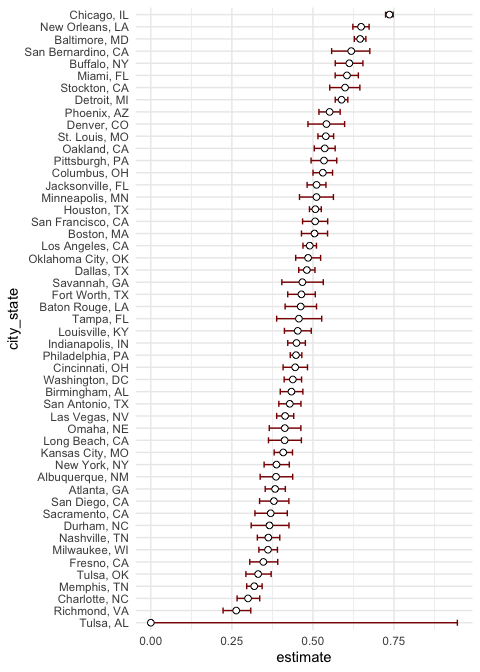
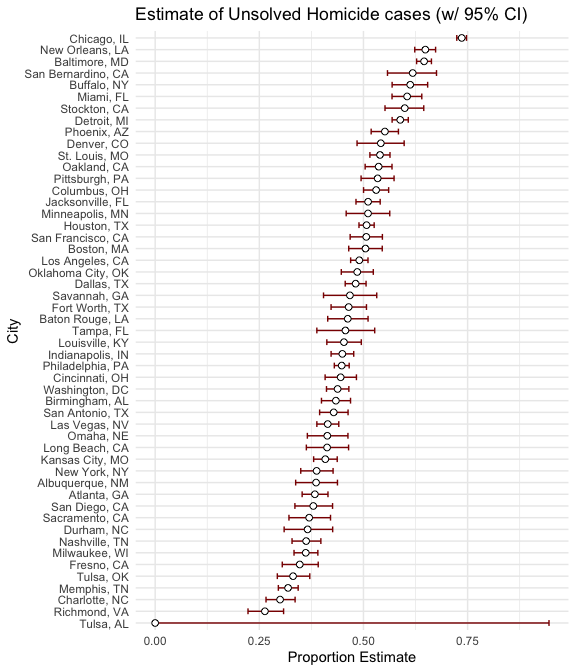
Editing response about effect size and sample estimate

Changed region(s): [[0.0, 0.0, 0.9688, 0.9688], [0.5, 0.9375, 0.7188, 1.0], [0.7812, 0.9375, 0.8438, 0.9688]]

diff --git a/p8105_hw5_cyl2159.md b/p8105_hw5_cyl2159.md
@@ -121,7 +121,7 @@ combined_t_results|>
   mutate(overall_average = mean(estimate)) |> 
   ungroup() |> 
   group_by(mu_val, reject_Ho) |> 
-  summarise(average_for_sampled_w_Ho_rejection = mean(estimate), 
+  summarise(mean_for_sample_w_Ho_rejection = mean(estimate), 
             mean_overall_estimate = overall_average[1]) |> 
   ungroup() |> 
   filter(reject_Ho == TRUE) |> 
@@ -133,18 +133,25 @@ combined_t_results|>
   ggplot(aes(x = mu_val, y = mean, group = mean_type, color = mean_type)) +
   geom_point(alpha = 0.5) +
   labs(x = "True Mean Value", y = "Average Mean Estimate",
-       title = "True versus Estimated Mean Values", color = "")
+       title = "True versus Estimated Mean Values", color = "") +
+  scale_colour_viridis_d(
+    breaks = c("mean_for_sample_w_Ho_rejection", "mean_overall_estimate"),
+    labels = c("Samples with Null Rejected", "All Samples"))
 ```
 
-<img src="p8105_hw5_cyl2159_files/figure-gfm/unnamed-chunk-8-1.png" width="85%" style="display: block; margin: auto;" />
+<img src="p8105_hw5_cyl2159_files/figure-gfm/unnamed-chunk-8-1.png" width="60%" style="display: block; margin: auto;" />
 
-The sample average of $\hat{\mu}$ across tests for which the null is
-rejected is approximately equal to the true value of $\mu$. It is
-because estimated sample mean ($\hat{\mu}$)has to be different from the
-null value (0) and closer to the actual $\mu$ to reject the null
-hypothesis. This is the case for when we the true value is 1-6, however,
-not for when true $\mu$ = 0, since reject the null means that the
-estimate is different thatn 0.
+No, the sample average of $\hat{\mu}$ across tests for which the null is
+rejected is not approximately equal to the true value of $\mu$. It is
+because the test for rejecting the null focuses on cases where the
+sample mean is significantly different (0 in this case). When the true
+mean ($\mu$) is small, it is less likely for the null to be rejected (as
+shown in the previous plot), so for the null to be rejected, the
+estimate has to be distinctly different from 0. This leads to a biased
+estimate. As, $\mu$ increases, it becomes easier to reject null, so the
+average rejected samples’ mean ($\hat{\mu}$) is closer to $\mu$. This is
+why we see higher deviation in rejected sample mean from the true mean
+for when $\mu$ = 1 and as $\mu$ increases, it gets closer.
 
 ## Problem 3
 
@@ -152,39 +159,27 @@ Load homicide data from the Washington Post:
 
 ``` r
 homicide_data <- read_csv("data/homicide-data.csv") |> 
-  mutate(state = toupper(state))
-```
-
-    ## Rows: 52179 Columns: 12
-    ## ── Column specification ────────────────────────────────────────────────────────
-    ## Delimiter: ","
-    ## chr (9): uid, victim_last, victim_first, victim_race, victim_age, victim_sex...
-    ## dbl (3): reported_date, lat, lon
-    ## 
-    ## ℹ Use `spec()` to retrieve the full column specification for this data.
-    ## ℹ Specify the column types or set `show_col_types = FALSE` to quiet this message.
-
-``` r
-cities <- pull(homicide_data, city) |> unique() |> length()
+  mutate(state = toupper(state), 
+         city_state = str_c(city, state, sep = ", "), 
+         result = case_when(disposition %in% c("Closed without arrest", 
+                                                "Open/No arrest") ~ "unsolved", 
+                            disposition == "Closed by arrest" ~ "solved")) 
+cities <- pull(homicide_data, city_state) |> unique() |> length()
 states <- pull(homicide_data, state) |> unique() |> length()
 ```
 
-The raw dataset has 52179 rows and 12 columns where each row is a
+The raw dataset has 52179 rows and 14 columns where each row is a
 homicide case. Along with the case number, reported date, victim’s name,
 their demographic information, it also has geographical information such
-as city, state, longitude and latitude. There are cases from 50 cities
-from `r`states`states. Similarly, the column`disposition\` remarks end
-result of the case. I corrected state values to be uppercase, created a
+as city, state, longitude and latitude. There are cases from 51 cities
+from 28 states. Similarly, the column `disposition` remarks end result
+of the case. I corrected state values to be uppercase, created a
 city_state variable, and summarized the total number of homicides and
 number of unsolved homicides in each city. Below is the list of 10
 cities with most unsolved homicides.
 
 ``` r
 homicide_data_clean <- homicide_data |> 
-  mutate(city_state = str_c(city, state, sep = ", "), 
-         result = case_when(disposition %in% c("Closed without arrest", 
-                                                "Open/No arrest") ~ "unsolved", 
-                            disposition == "Closed by arrest" ~ "solved")) |> 
   group_by(city_state, result) |> 
   summarize(homicide = n()) |> 
   pivot_wider(
@@ -195,30 +190,25 @@ homicide_data_clean <- homicide_data |>
                               TRUE ~ unsolved), 
     total_homicide = sum(solved, unsolved, na.rm = TRUE)) |> 
   select(city_state, total_homicide, unsolved) |> 
-  arrange(unsolved)
-```
+  arrange(desc(unsolved))
 
-    ## `summarise()` has grouped output by 'city_state'. You can override using the
-    ## `.groups` argument.
-
-``` r
 homicide_data_clean |> 
   head(10) |> 
   knitr::kable()
 ```
 
-| city_state      | total_homicide | unsolved |
-|:----------------|---------------:|---------:|
-| Tulsa, AL       |              1 |        0 |
-| Tampa, FL       |            208 |       95 |
-| Durham, NC      |            276 |      101 |
-| Richmond, VA    |            429 |      113 |
-| Savannah, GA    |            246 |      115 |
-| Sacramento, CA  |            376 |      139 |
-| Albuquerque, NM |            378 |      146 |
-| Long Beach, CA  |            378 |      156 |
-| Denver, CO      |            312 |      169 |
-| Fresno, CA      |            487 |      169 |
+| city_state       | total_homicide | unsolved |
+|:-----------------|---------------:|---------:|
+| Chicago, IL      |           5535 |     4073 |
+| Baltimore, MD    |           2827 |     1825 |
+| Houston, TX      |           2942 |     1493 |
+| Detroit, MI      |           2519 |     1482 |
+| Philadelphia, PA |           3037 |     1360 |
+| Los Angeles, CA  |           2257 |     1106 |
+| New Orleans, LA  |           1434 |      930 |
+| St. Louis, MO    |           1677 |      905 |
+| Dallas, TX       |           1567 |      754 |
+| Jacksonville, FL |           1168 |      597 |
 
 Running proportion test for Baltimore to estimate the proportion of
 homicides that are unsolved:
@@ -238,16 +228,17 @@ prop_result <- prop_result |>
   select(estimate, conf_low, conf_high) 
 
 prop_result|> 
+  mutate_if(is.numeric, round, 3) |> 
   knitr::kable()
 ```
 
-|  estimate |  conf_low | conf_high |
-|----------:|----------:|----------:|
-| 0.6455607 | 0.6275625 | 0.6631599 |
+| estimate | conf_low | conf_high |
+|---------:|---------:|----------:|
+|    0.646 |    0.628 |     0.663 |
 
-The estimated proportion of unsolved homicides is 0.646. We are 95%
-confident that true value of proportion of unsolved homicides is between
-0.628 and 0.663.  
+The estimated proportion of unsolved homicides in Baltimore, MD is
+0.646. We are 95% confident that true value of proportion of unsolved
+homicides is between 0.628 and 0.663.  
 
 Function to run `prop.test` for each of the cities:
 
@@ -264,10 +255,12 @@ prop_function <- function(city_name) {
   return(prop_result)
 }
 
-prop_result_all_cities <- homicide_data_clean |> 
-  mutate(prop_res = map(city_state, prop_function)) |> 
+prop_result_all_cities <- expand_grid(
+  cities = pull(homicide_data_clean, city_state)
+  ) |> 
+  mutate(prop_res = map(cities, prop_function)) |> 
   unnest(prop_res) |> 
-  select(estimate, conf_low, conf_high) |> 
+  select(cities, estimate, conf_low, conf_high) |> 
   as_tibble()
 ```
 
@@ -275,11 +268,16 @@ Plot the results
 
 ``` r
 prop_result_all_cities |> 
-  mutate(city_state = fct_reorder(city_state, estimate)) |>
-  ggplot(aes(x = city_state, y = estimate)) +
+  mutate(cities = fct_reorder(cities, estimate)) |>
+  ggplot(aes(x = cities, y = estimate)) +
   geom_errorbar(aes(ymin = conf_low, ymax = conf_high),color = "darkred", width = 0.5)+
   geom_point(size = 2, shape = 21, fill = "white") +
+  labs(y = "Proportion Estimate", x = "City",
+       title = "Estimate of Unsolved Homicide cases (w/ 95% CI)", color = "") +
   coord_flip()
 ```
 
-<img src="p8105_hw5_cyl2159_files/figure-gfm/unnamed-chunk-13-1.png" width="80%" style="display: block; margin: auto;" />
+<img src="p8105_hw5_cyl2159_files/figure-gfm/unnamed-chunk-13-1.png" width="90%" style="display: block; margin: auto;" />
+
+Among the 51 cities, Chicago has the highest proportion of unsolved
+homicide cases, followed by New Orleans and Baltimore.
